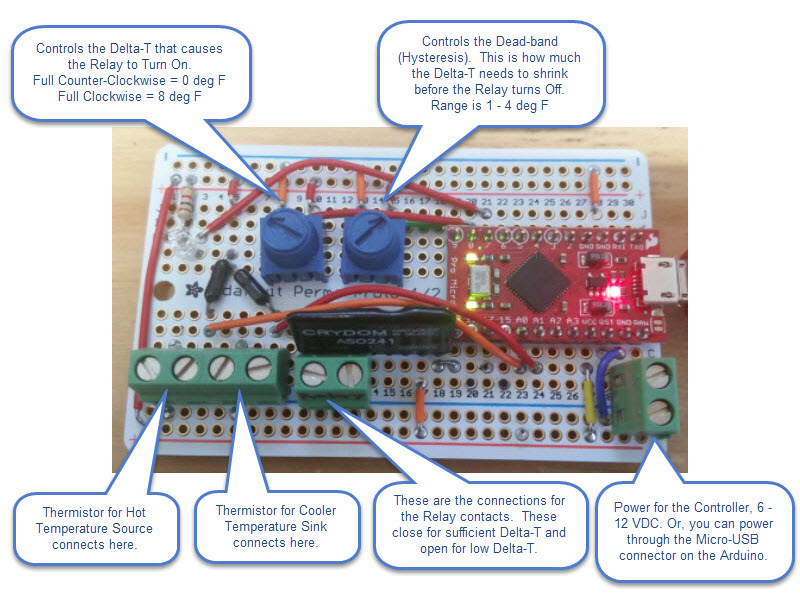
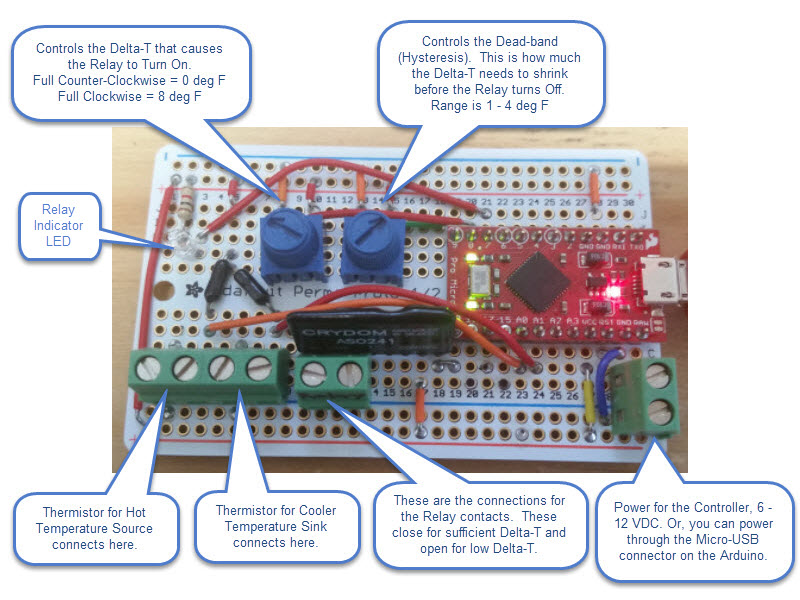
Updated description and board diagram.

Changed region(s): [[0.0, 0.3, 0.2188, 0.45]]

diff --git a/README.md b/README.md
@@ -1,10 +1,22 @@
 # Differential Temperature Controller
 
-This is a simple Differential Temperature Controller that is implemented through use of an Arduino Pro Micro.  This controller was built to turn on a pump to transfer heat from one hydronic storage tank to another.  It could be used for other applications, such as Solar Hot Water Heater pump control.
+This is a simple Differential Temperature Controller that is implemented through use of an [Arduino Pro Micro](https://www.sparkfun.com/products/12640).  This controller was built to turn on a pump to transfer heat from one hydronic storage tank to another.  It could be used for other applications, such as Solar Hot Water Heater pump control.  A differential controller turns on a relay when the difference in temperature between a heat source and a heat sink is large enough.  The relay turns off once the temperature differential lessens by a certain amount known as the deadband.
 
 Here is a picture of the Differential Temperature Controller built from this project:
 
 ![Differential Temperature Controller](images/differential_controller_board.jpg)
+
+There are two potentiometer (pot) controls on the board.  The left pot controls the level of differential temperature that causes the relay to turn On.  The code in this project currently sets the range of this pot to a differential temperature of 0 - 8 degrees Fahrenheit.  When the heat source temperature rises this many degrees above the heat sink temperature, the relay turns On.  
+
+The right pot controls the "deadband" of the controller, and this pot has a range of 1 - 4 degrees Fahrenheit.  Once the controller turns the relay On due to sufficient temperature differential, the relay will not be turned Off until the temperature differential shrinks by this amount.  For example, if the On differential is set to 6 degrees F and the deadband is set to 2 degrees F, the controller will turn the relay On when the heat sources rises 6 degrees F above the heat sink.  When that differential reduces to 6 deg F - 2 deg F = 4 deg F, the relay will be turned Off.
+
+An LED is present and labeled on the diagram above to indicate the state of the controller's Relay.  The LED turns On when the relay is On.
+
+Two thermistor temperature sensors connect to the controller to measure the temperature of the Heat Source and the Heat Sink.   A pair of screw terminals is provided to connect each of these temperature sensors, and these are shown in the diagram above.  The Arduino currently assumes that these sensors are [BAPI 10K-3 Thermistors](http://www.bapihvac.com/products/temperature-sensors/remote-probe-temperature-sensor/#configure).  Other thermistors can be used, but the Steinhart coefficients present in the Arduino code must be changed to match the actual thermistor used.
+
+For the relay used in the project and specified below, the load connected to the relay must be an AC load from 12 to 280 VAC with a maximum current draw of 1.5 Amps.
+
+
 
 
 
